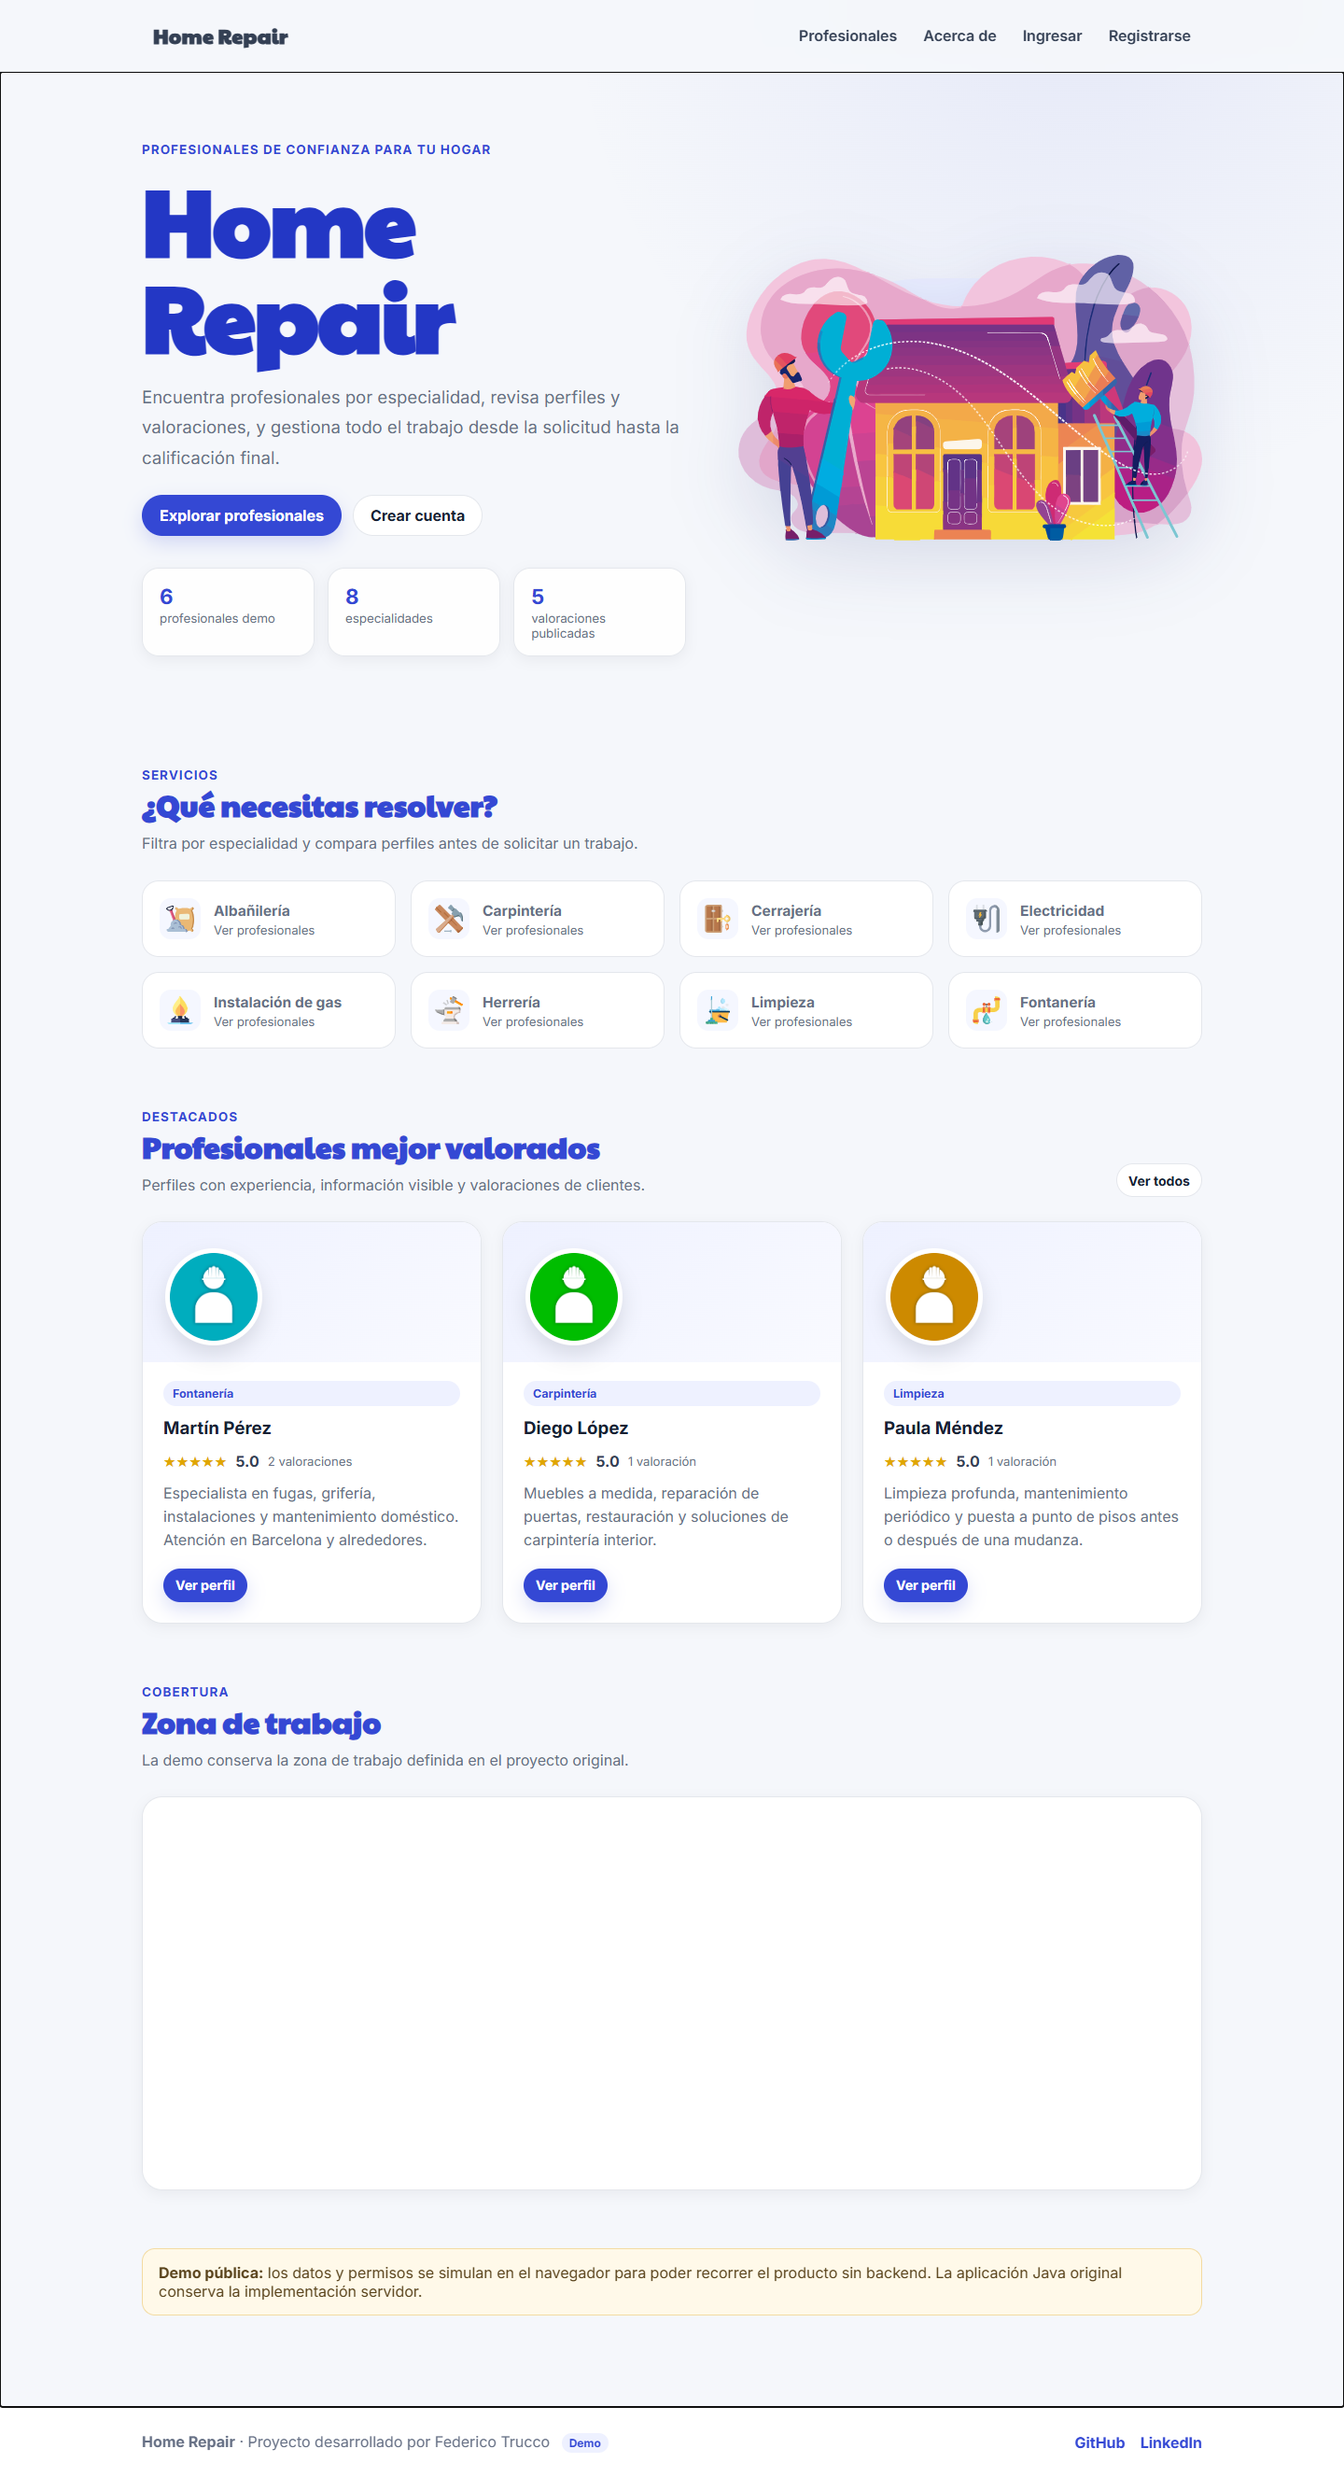
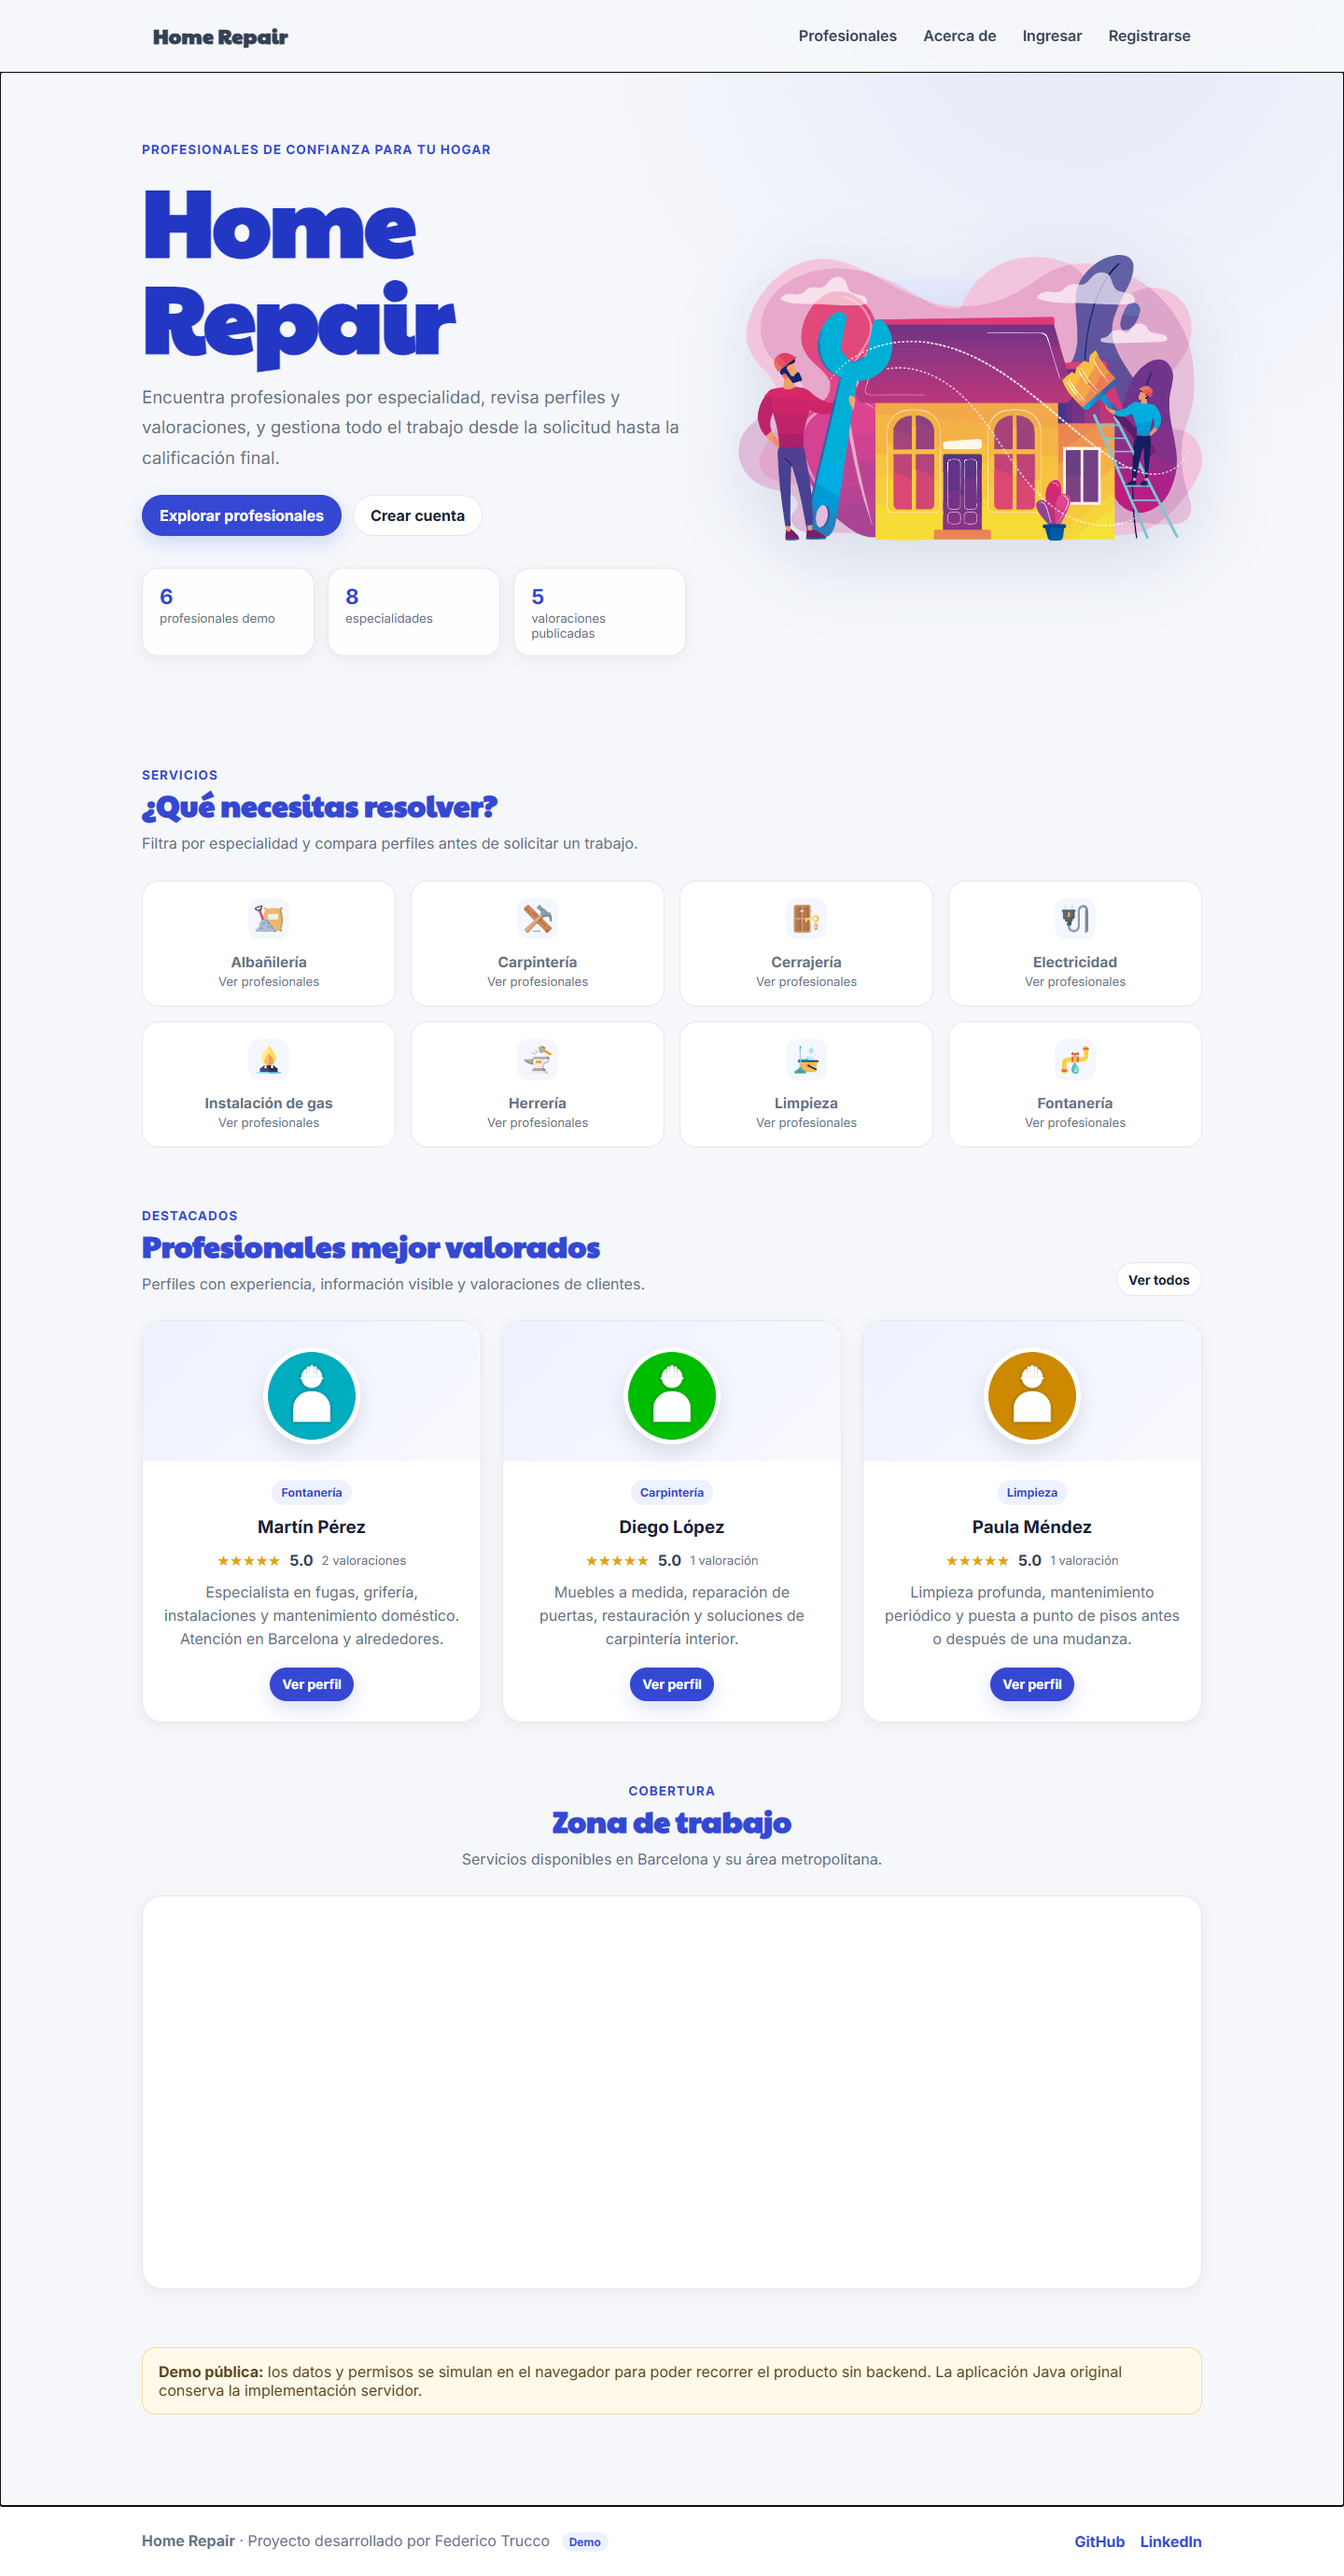
Center work-zone and card content across demo and Java UI
Center section hierarchy and card content, align the original Java UI, and move the work-zone map to Barcelona.

diff --git a/demo/styles.css b/demo/styles.css
@@ -100,15 +100,19 @@ img{max-width:100%;display:block}
 .stat span{display:block;color:var(--muted);font-size:.83rem;margin-top:2px}
 .section{margin:62px 0}
 .section-header{display:flex;align-items:end;justify-content:space-between;gap:24px;margin-bottom:26px}
+.section-header-centered{display:block;text-align:center}
+.section-header-centered .section-copy{margin:6px auto 0}
 .section-title{font-family:"Paytone One",sans-serif;color:var(--primary);font-size:2rem;margin:0}
 .section-copy{color:var(--muted);max-width:650px;margin:6px 0 0;line-height:1.65}
 .grid{display:grid;grid-template-columns:repeat(3,minmax(0,1fr));gap:22px}
 .service-grid{display:grid;grid-template-columns:repeat(4,minmax(0,1fr));gap:16px}
 .service-card{
   display:flex;
+  flex-direction:column;
   align-items:center;
-  gap:14px;
-  text-align:left;
+  justify-content:center;
+  gap:12px;
+  text-align:center;
   padding:18px;
   background:#fff;
   border:1px solid var(--border);
@@ -121,14 +125,14 @@ img{max-width:100%;display:block}
 .service-card strong{display:block;font-size:.97rem}
 .service-card span{display:block;color:var(--muted);font-size:.82rem;margin-top:3px}
 .card{background:var(--surface);border:1px solid var(--border);border-radius:var(--radius);padding:22px;box-shadow:var(--shadow-sm);min-width:0}
-.provider-card{padding:0;overflow:hidden;display:flex;flex-direction:column;min-height:100%;text-align:left}
-.provider-visual{position:relative;background:linear-gradient(135deg,#eef1ff,#f9faff);padding:28px 24px 18px}
+.provider-card{padding:0;overflow:hidden;display:flex;flex-direction:column;min-height:100%;text-align:center}
+.provider-visual{position:relative;display:flex;justify-content:center;background:linear-gradient(135deg,#eef1ff,#f9faff);padding:28px 24px 18px}
 .card-avatar{width:104px;height:104px;border-radius:50%;object-fit:cover;background:#e8eaf0;border:5px solid #fff;box-shadow:0 10px 22px rgba(16,24,40,.13)}
-.provider-body{padding:20px 22px 22px;display:flex;flex:1;flex-direction:column}
+.provider-body{padding:20px 22px 22px;display:flex;flex:1;flex-direction:column;align-items:center}
 .provider-card h3{font-size:1.17rem;color:var(--text);margin:12px 0 5px}
-.provider-card p{color:var(--muted);line-height:1.55;margin:12px 0 18px}
-.provider-card .btn{margin-top:auto;align-self:flex-start}
-.rating-line{display:flex;align-items:center;gap:9px;flex-wrap:wrap;margin-top:8px}
+.provider-card p{color:var(--muted);line-height:1.55;margin:12px auto 18px;max-width:34ch;text-align:center}
+.provider-card .btn{margin-top:auto;align-self:center}
+.rating-line{display:flex;align-items:center;justify-content:center;gap:9px;flex-wrap:wrap;margin-top:8px}
 .rating{color:#e0a600;letter-spacing:.04em;font-size:.98rem}
 .rating-number{font-weight:800;color:#344054}
 .review-count{color:var(--muted);font-size:.82rem}

diff --git a/demo/app.js b/demo/app.js
@@ -145,9 +145,9 @@ function home(){
   </section>
 
   <section class="section work-zone" aria-labelledby="work-zone-title">
-    <div class="section-header"><div><span class="eyebrow">Cobertura</span><h2 id="work-zone-title" class="section-title">Zona de trabajo</h2><p class="section-copy">La demo conserva la zona de trabajo definida en el proyecto original.</p></div></div>
+    <div class="section-header section-header-centered"><div><span class="eyebrow">Cobertura</span><h2 id="work-zone-title" class="section-title">Zona de trabajo</h2><p class="section-copy">Servicios disponibles en Barcelona y su área metropolitana.</p></div></div>
     <div class="map-card">
-      <iframe src="https://www.google.com/maps/embed?pb=!1m19!1m8!1m3!1d107099.74700889834!2d-68.8769007!3d-32.9809081!3m2!1i1024!2i768!4f13.1!4m8!3e6!4m0!4m5!1s0x967e0af3dc0e8f1f%3A0x6b647646861df9cf!2sChacras%20de%20Coria%20Mendoza!3m2!1d-32.9809081!2d-68.8769007!5e0!3m2!1ses-419!2sar!4v1682108546727!5m2!1ses-419!2sar" title="Mapa de zona de trabajo de Home Repair" loading="lazy" referrerpolicy="no-referrer-when-downgrade" allowfullscreen></iframe>
+      <iframe src="https://www.google.com/maps?q=Barcelona%2C%20Espa%C3%B1a&z=11&output=embed" title="Mapa de zona de trabajo de Home Repair en Barcelona" loading="lazy" referrerpolicy="no-referrer-when-downgrade" allowfullscreen></iframe>
     </div>
   </section>
 

diff --git a/src/main/resources/templates/index.html b/src/main/resources/templates/index.html
@@ -16,9 +16,9 @@
       <div class="row">
         <div class="col left-col">
           <h1 class="big-title">Home Repair</h1>
-          <h4 class="subtitle">Reparaciones hogareñas</h4>
+          <h4 class="subtitle">Reparaciones del hogar</h4>
 
-          <a class="btn btn-warning button" href="/user/register" role="button">📝Registrate</a>
+          <a class="btn btn-warning button" href="/user/register" role="button">📝 Regístrate</a>
         </div>
         <div class="col">
           <img class="image" src="/img/homeRepair.svg" alt="home repair">
@@ -34,9 +34,10 @@
     </section>
 
     <!-- NEIGHBORHOOD MAP >>>>>>>>>>>>>>>>>>>>>>>>>>>>>>>>>>>>>>>>>>>>>>>>>>>>>>>>  -->
-    <section>
-      <h3 class="title">Zona de trabajo</h3>
-
+    <section class="work-zone-section" aria-labelledby="work-zone-title">
+      <p class="section-kicker">Cobertura</p>
+      <h2 id="work-zone-title" class="title work-zone-title">Zona de trabajo</h2>
+      <p class="work-zone-copy">Servicios disponibles en Barcelona y su área metropolitana.</p>
       <div th:replace="th_templates/map :: map"></div>
     </section>
 

diff --git a/src/main/resources/templates/th_templates/map.html b/src/main/resources/templates/th_templates/map.html
@@ -1,4 +1,8 @@
 <div th:fragment="map">
-  <iframe src="https://www.google.com/maps/embed?pb=!1m19!1m8!1m3!1d107099.74700889834!2d-68.8769007!3d-32.9809081!3m2!1i1024!2i768!4f13.1!4m8!3e6!4m0!4m5!1s0x967e0af3dc0e8f1f%3A0x6b647646861df9cf!2sChacras%20de%20Coria%20Mendoza!3m2!1d-32.9809081!2d-68.8769007!5e0!3m2!1ses-419!2sar!4v1682108546727!5m2!1ses-419!2sar"
-  width="600" height="450" style="border:0;" allowfullscreen="" loading="lazy" referrerpolicy="no-referrer-when-downgrade" class="map"></iframe>
+  <iframe src="https://www.google.com/maps?q=Barcelona%2C%20Espa%C3%B1a&z=11&output=embed"
+          title="Mapa de zona de trabajo de Home Repair en Barcelona"
+          allowfullscreen
+          loading="lazy"
+          referrerpolicy="no-referrer-when-downgrade"
+          class="map"></iframe>
 </div>

diff --git a/src/main/resources/templates/th_templates/cardServices.html b/src/main/resources/templates/th_templates/cardServices.html
@@ -49,7 +49,7 @@
       <article class="card h-100 card-services d-flex">
         <img src="/img/gas.svg" class="services" alt="">
         <div class="card-body">
-          <h3 class="card-title">Gas</h3>
+          <h3 class="card-title">Instalación de gas</h3>
           <p class="card-text">Revisión, instalación y mantenimiento de sistemas de gas.</p>
         </div>
       </article>
@@ -82,7 +82,7 @@
       <article class="card h-100 card-services d-flex">
         <img src="/img/plumbing.svg" class="services" alt="">
         <div class="card-body">
-          <h3 class="card-title">Plomería</h3>
+          <h3 class="card-title">Fontanería</h3>
           <p class="card-text">Fugas, grifería, instalaciones y mantenimiento de agua.</p>
         </div>
       </article>

diff --git a/src/main/resources/static/css/index.css b/src/main/resources/static/css/index.css
@@ -34,12 +34,37 @@ main {
   justify-content: center;
 }
 
+.work-zone-section {
+  text-align: center;
+  margin-top: 4rem;
+}
+
+.section-kicker {
+  margin: 0 0 .5rem;
+  color: #4050e1;
+  font-size: .85rem;
+  font-weight: 700;
+  letter-spacing: .08em;
+  text-transform: uppercase;
+}
+
+.work-zone-title {
+  margin: 0;
+}
+
+.work-zone-copy {
+  max-width: 42rem;
+  margin: .75rem auto 1.75rem;
+  color: #666;
+  line-height: 1.6;
+}
+
 .map {
   width: 100%;
-  height: 300px;
+  height: 360px;
   border: 0;
-  border-radius: 50px;
-  box-shadow: 0 10px 13px -7px #000;
+  border-radius: 32px;
+  box-shadow: 0 10px 24px rgba(0, 0, 0, .14);
 }
 
 .providers {

diff --git a/src/main/resources/templates/home.html b/src/main/resources/templates/home.html
@@ -40,8 +40,10 @@
       <div th:replace="th_templates/cardServices :: cardServices"></div>
     </section>
 
-    <section>
-      <h2 class="title">Zona de trabajo</h2>
+    <section class="work-zone-section" aria-labelledby="work-zone-title">
+      <p class="section-kicker">Cobertura</p>
+      <h2 id="work-zone-title" class="title work-zone-title">Zona de trabajo</h2>
+      <p class="work-zone-copy">Servicios disponibles en Barcelona y su área metropolitana.</p>
       <div th:replace="th_templates/map :: map"></div>
     </section>
   </main>

diff --git a/src/main/resources/static/css/cards.css b/src/main/resources/static/css/cards.css
@@ -73,6 +73,24 @@
 
 .card-footer {
   width: 100%;
+  text-align: center;
+}
+
+.provider-result-card .card-body {
+  display: flex;
+  flex-direction: column;
+  align-items: center;
+  text-align: center;
+}
+
+.provider-result-card .badge {
+  margin-inline: auto;
+}
+
+.provider-result-card .card-text {
+  max-width: 34ch;
+  margin-inline: auto;
+  text-align: center;
 }
 
 .container-error-card {
